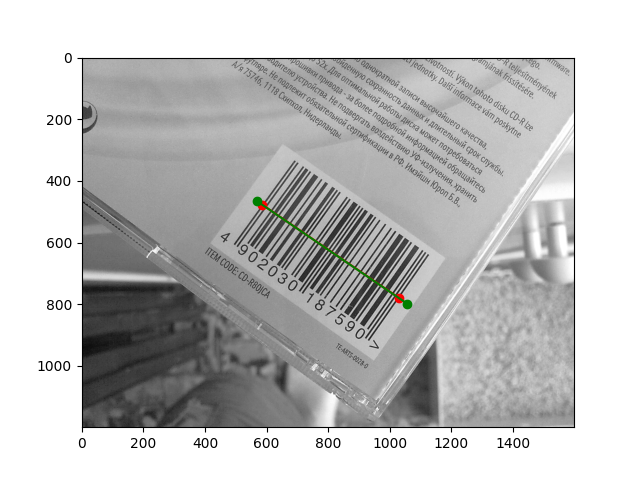
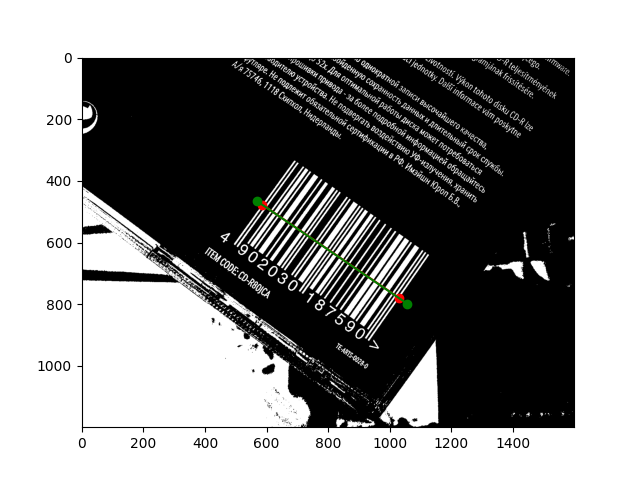
Rapport

diff --git a/latex/main.tex b/latex/main.tex
@@ -97,19 +97,18 @@
 \subsection{Phase 2 : Lecture du code barre}
 
 La phase précédente a permis de récupérer un ensemble de couple de points représentant des rayons. 
-Pour chaque couple de points, nous déterminons d'une part les 13 valeurs du code barre, et d'autre part, s'il est valide ou non.
+Pour chaque couple de points, nous déterminons d'une part les 13 valeurs du code barre, et d'autre part, nous vérifions s'il est valide ou non.
 
 \subsubsection*{Seuillage à l'aide d'Otsu}
 La méthode d'Otsu est une technique de seuillage de Nobuyuki Otsu utilisée en traitement d'images pour la segmentation binaire. 
 Elle vise à séparer les pixels d'une image en deux classes distinctes : l'avant-plan et l'arrière-plan. 
-L'algorithme d'Otsu consiste à chercher le seuil de gris qui minimise la variance intra-classe, c'est-à-dire la somme des variances des deux classes. 
-Pour ce faire, il calcule l'histogramme des niveaux de gris de l'image et évalue la dispersion des pixels pour chaque seuil possible. 
+Pour ce faire, on construit l'histogramme des niveaux de gris de l'image et évalue la dispersion des pixels pour chaque seuil possible. 
 Le seuil optimal est celui qui maximise la variance inter-classe, assurant ainsi une séparation claire entre les deux classes. 
 En pratique, le seuil calculé se situe entre les deux pics de l'histogramme.
 
 \subsubsection*{Détermination des limites du code-barres}
 La première étape de cette phase est de réduire ce rayon, de sorte que les deux nouveaux points correspondent à la première barre noire du code barre.
-Pour cela, nous devons tout d'abord opérer un seuillage de l'image grâce au seuil donné par l'algorithme d'otsu.
+Pour cela, nous devons tout d'abord opérer un seuillage de l'image grâce au seuil donné par l'algorithme d'Otsu.
 
 Cet ensemble de points va alors être binarisé grâce au seuil. C'est à dire que les points de valeurs inférieures au seuil vont valoir 1 et les autres vont valoir 0
 
@@ -120,7 +119,7 @@ Finalement un dernier échantillonnage suivi d'une binarisation sur le même seu
 C'est à dire que les points de valeurs inférieures au seuil vont valoir 0 tandis que les autres vont valoir 0.
 Le nombre de point échantillonnés est calculé en prenant $N=u*95$ avec u le plus petit multiple de 95 tel que u*95>L la longueur du segment du code barre
 
-\subsubsection{Analyse du code barre binaire}
+\subsubsection*{Analyse du code barre binaire}
 La prochaine étape consiste à séparer les différents blocs contenu dans la liste binaire obtenu précédemment en ne gardant que ceux représentant des nombres
 Pour décoder chaque blocs, ils font être comparé avec des données de décodage en adaptant celle-ci à la taille du bloc 
 Le choix se fera en prenant la plus petit norme de la différence entre le bloc et les données comparés.
@@ -166,30 +165,34 @@ Il suffit ainsi de lire le tableau de correspondance suivant :
         AABBBA & 3 & ABABBA & 8 \\ \hline
         ABAABB & 4 & ABBABA & 9 \\ \hline
     \end{tabular}
-    \caption{Tableau des familles d’appartenance de la première séquence}
+    \caption{Tableau des familles d’appartenance de la séquence}
     \label{tab:sequence}
 \end{table}
 
 \subsubsection*{Vérification de la clef de contrôle}
-Pour déterminer la clé de contrôle, il faut additionner les chiffres en positions paire à trois fois les
-les chiffres en positions impaires jusqu'au $12^{eme}$ chiffre. La clé est alors valable si son chiffre des
-unités est égal au complément à 10 du $13^{eme}$ chiffre du code.
- 
+Pour déterminer la clé de contrôle, il faut additionner les chiffres en positions paires à trois fois la somme des
+chiffres en positions impaires jusqu'au $12^{eme}$ chiffre. 
+La clé est alors valable si le chiffre des unités est égal au complément à 10 du $13^{eme}$ chiffre du code.
+
 \section{Implémentation}
 
 \subsection{Phase 1 : Détection du code barre}
 
 \subsection{Phase 2 : Lecture du code barre}
 
-Contrairement à la phase précédente, nous avons implémenté la phase 2 entièrement en programmation imprérative.
+Contrairement à la phase précédente, nous avons implémenté la phase 2 entièrement en programmation impérative.
 Chaque étape clé de l'algorithme est implémentée par une fonction spécifique, tout en respectant les principes de modularité et de réutilisabilité du code.
+
+\vspace{0.5cm}
 
 Les fonctions réutilisées sont : 
 \begin{itemize}
 	\item \texttt{distance} : Calcule la distance entre deux points.
 	\item \texttt{echantillonnage} : Échantillonne un segment pour un nombre de points donné en choisissant le plus proche voisins avec np.around.
-	\item \texttt{norme\_binaire} : Calcul la norme binaire entre les blocs binaires du code-barres et les séquences à comparer. Cette norme se traduit dans l'implémentation par une comparaison bit à bit.
+	\item \texttt{norme\_binaire} : Calcule la norme binaire entre les blocs binaires du code-barres et les séquences à comparer. Cette norme se traduit dans l'implémentation par une comparaison bit à bit.
 \end{itemize}
+
+\vspace{0.5cm}
 
 Les fonctions implémentées sont :
 \begin{itemize}
@@ -197,10 +200,10 @@ Les fonctions implémentées sont :
 	\item \textbf{Détermination des limites du code-barres} : La fonction \texttt{find\_lim} permet de déterminer les limites du code barre à partir d'un segment donné. 
 	La fonction \texttt{find\_u} permet de déterminer le facteur u pour échantillonner le second segment de code barre.
 	\item \textbf{Analyse du code barre binaire} : La fonction \texttt{separate} détermine les douze blocs de données (ignorant les gardes) à partir du segment seuillé et les placent dans un tableau, facilitant alors le déchiffrement. 
-	La fonction \texttt{compare} va alors utiliser la fonction \texttt{norme\_binaire} pour comparer chaque bloc binaire du tableau sortant de \texttt{separate} et permttre de récupérere les 12 chiffres décodés et une liste contenant la séquence AB.
+	La fonction \texttt{compare} va alors utiliser la fonction \texttt{norme\_binaire} pour comparer chaque bloc binaire du tableau sortant de \texttt{separate} et permettre de récupérer les 12 chiffres décodés et une liste contenant la séquence AB.
 	\item \textbf{Détermination du premier chiffre du code barre} : La fonction \texttt{first\_one} permet de déterminer le premier chiffre du code barre à partir de la séquence AB.
 	\item \textbf{Vérification de la clef de contrôle} : La fonction \texttt{clef\_controle} permet de vérifier la validité du code barre en calculant la clé de contrôle.
-	Elle est calculé par le produit scalaire avec le vecteur [1, 3, 1, 3, 1, 3, 1, 3, 1, 3, 1, 3]. De plus, nous avons utilisé un modulo 10 sur le complément à 10 pour prendre en compte que le complement à 10 de 0 est 0.
+	Elle est calculée par le produit scalaire avec le vecteur [1, 3, 1, 3, 1, 3, 1, 3, 1, 3, 1, 3]. De plus, nous avons utilisé un modulo 10 sur le complément à 10 pour prendre en compte que le complément à 10 de 0 est 0.
 \end{itemize}
 
 \section{Résultats}

diff --git a/phase1.py b/phase1.py
@@ -190,13 +190,13 @@ def phase1(x, y, img, seuil):
     # Binarisation
     xd,yd,xa,ya = find_lim(x1,y1,x2,y2,img,seuil)
 
-    '''
+    
     plt.figure()
-    plt.imshow(img, cmap='gray')
-    #plt.plot([xd, xa], [yd, ya], 'ro-')
+    plt.imshow(img < seuil, cmap='gray')
+    plt.plot([xd, xa], [yd, ya], 'ro-')
     plt.plot([x1, x2], [y1, y2], 'go-')
     plt.show()
-    '''    
+
     
     # Echantillonage + Binarisation de l'image après seuillage 
     segment_seuillage, u = find_u(xd,yd,xa,ya,img,seuil)
